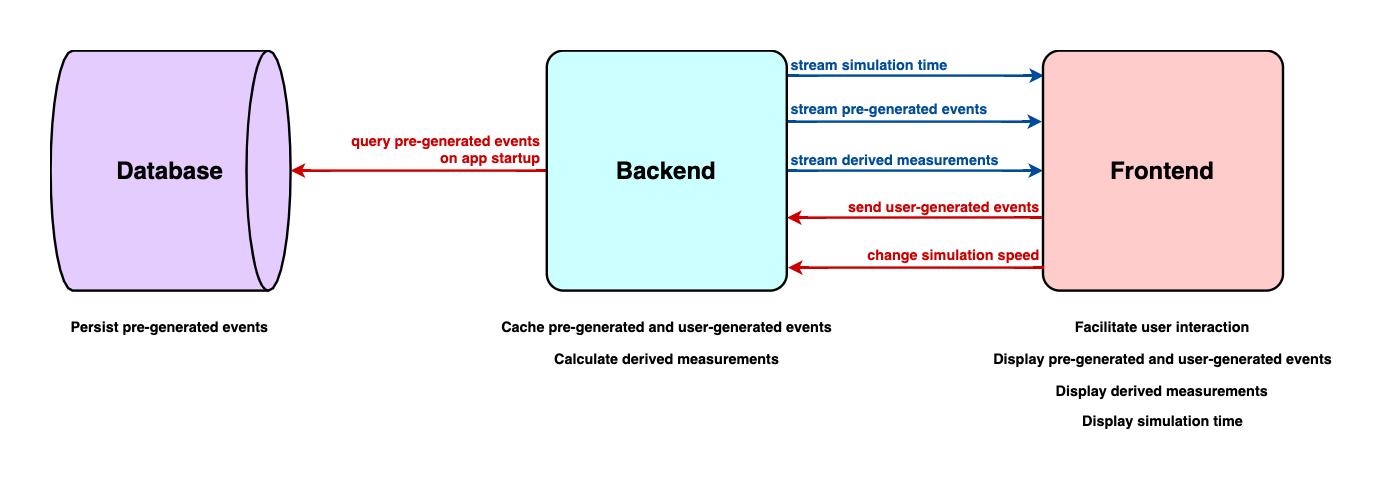
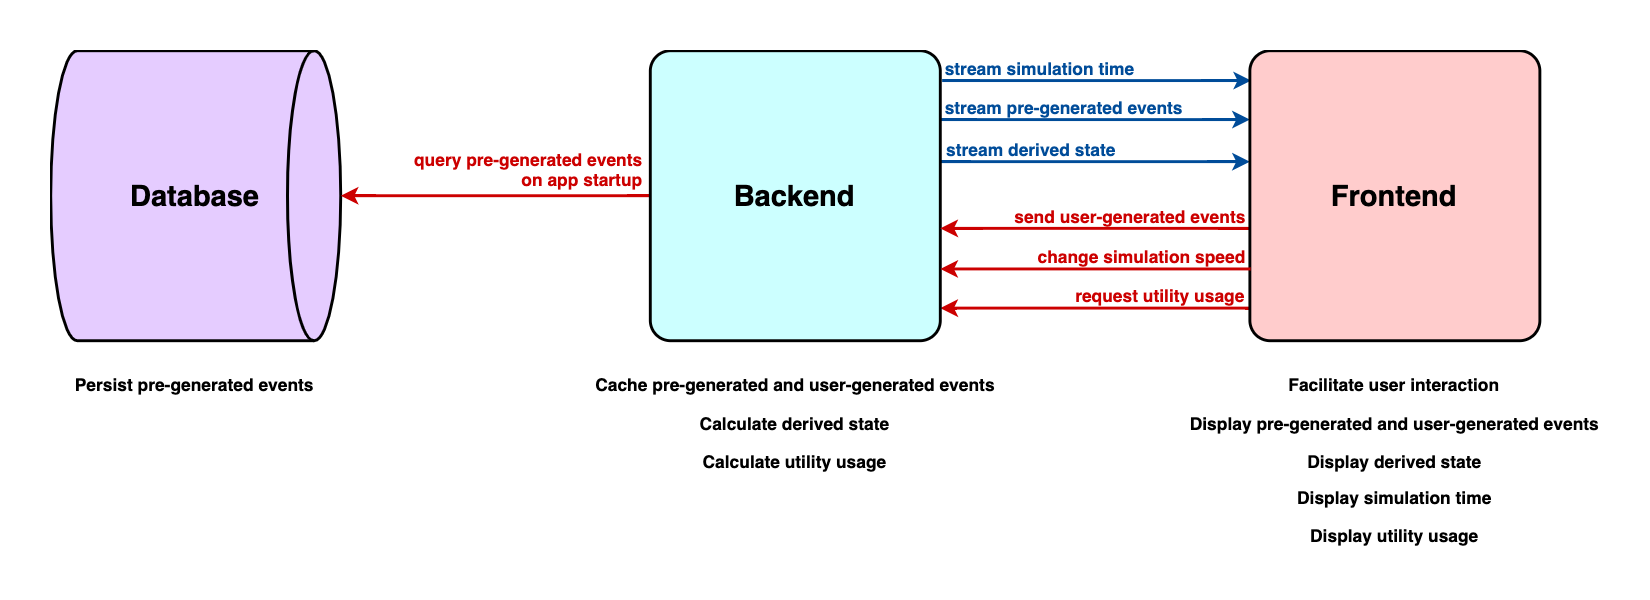
update design

Changed region(s): [[0.0311, 0.0622, 0.9645, 0.9025], [0.4356, 0.3112, 0.5289, 0.3734]]

diff --git a/app/src/components/SmartHome.tsx b/app/src/components/SmartHome.tsx
@@ -35,8 +35,8 @@ class SmartHome extends React.Component<SmartHomeProps, SmartHomeState> {
     return (
       <>
         <h2>Smart Home</h2>
-        {this.state.events.map((event) => (
-          <div key={event.id}>Event: {JSON.stringify(event, null, 2)}</div>
+        {this.state.events.map((event, i) => (
+          <div key={i}>Event: {JSON.stringify(event, null, 2)}</div>
         ))}
       </>
     );

diff --git a/app/src/common/types.tsx b/app/src/common/types.tsx
@@ -3,7 +3,6 @@
  */
 
 export type SmartHomeEvent = {
-  id: number;
   time: number;
   stateKey: string;
   newValue: any;

diff --git a/app/public/events/Event.py b/app/public/events/Event.py
@@ -11,7 +11,6 @@ class Event(TypedDict):
     See `design.md`.
     """
 
-    id: int
     time: int
     stateKey: str
     newValue: Any
@@ -27,13 +26,12 @@ def queryEvents() -> List[Event]:
     return sorted(
         [
             {
-                "id": i,
                 "time": randint(MIN_APP_TIME, MAX_APP_TIME),
                 "stateKey": choice(["x", "y", "z"]),
                 "newValue": "value",
                 "message": "message",
             }
-            for i in range(50000)
+            for _ in range(50000)
         ],
         key=lambda e: e["time"],
     )

diff --git a/app/docs/design.md b/app/docs/design.md
@@ -13,8 +13,7 @@
 
 ### Backend
 
-- How can we efficiently calculate derived measurements?
-- How should we store user-generated events on the backend to be analyzed? We have to analyze pre-generated and user-generated events together to calculate derived measurements.
+- How can we calculate derived state and utility usage?
 
 ### Frontend
 
@@ -36,29 +35,33 @@ Our smart home dashboard simulator is an event-based application that operates a
 
 TODO
 
-## Derived Measurements
+### Derived State
 
-Derived measurements are measurements derived from smart home state over time.
+Derived state is smart home state that is calculated based on the effects of smart home events over time.
 
-### Indoor Temperature
+Although the backend treats derived state differently (because it has to calculate it), the frontend treats derived state as a normal part of the overall smart home state.
 
-TODO
+#### Indoor Temperature
 
-### HVAC Status
+Indoor temperature is the temperature inside the smart home measured in Fahrenheit.
 
-TODO
+It is affected by:
 
-### Utility Usage
+- the outdoor temperature
+- the opening and closing of doors and windows
 
-TODO
+#### HVAC Status
 
-#### Previous Month
+HVAC status tells whether the smart home's HVAC system is _off_, _heating_, or _cooling_.
 
-TODO
+It is affected by:
 
-#### Current Month
+- the thermostat setting
+- the indoor temperature
 
-TODO
+## Utility Usage
+
+Utility usage is calculated based on smart home events over a period of time that consume water and/or electricity.
 
 ## Events
 
@@ -66,7 +69,6 @@ An event is an object representing a change in smart home state at a certain poi
 
 ### Event Attributes
 
-- `id` is the unique identifier of the event (a serial assigned by Postgres)
 - `time` is the number of seconds after the start of app time at which the event occurred
 - `stateKey` is the key to the value in the smart home state that the event changed
 - `newValue` is the new value for `stateKey` in the smart home state after the event
@@ -77,12 +79,17 @@ An event is an object representing a change in smart home state at a certain poi
 Pre-generated events are the backbone of the smart home simulation. They:
 
 - are generated ahead of time (before the app runs)
+- are uniquely identifiable by `time` and `stateKey`
 - are based on the provided family schedule and downloaded weather data
 - define the base smart home state over a 2-month time period
 
 ### User-Generated Events
 
-TODO
+User-generated events are events triggered by the user and created at runtime. They:
+
+- are stored with pre-generated events on the backend
+- are included in calculations of derived state and utility usage
+- take precedence over pre-generated events during calculations when there is a conflict by `time` and `stateKey`
 
 ## Database Design
 
@@ -91,11 +98,11 @@ The database is only used for storing **pre-generated events**, and it does so u
 ```sql
 CREATE TABLE PreGeneratedEvent
 (
-    id serial,
     time int,
     stateKey text,
     newValue json,
-    message text
+    message text,
+    PRIMARY KEY (time, stateKey)
 );
 ```
 
@@ -145,42 +152,86 @@ The app clock allows:
 1   real second   =  43,200     app seconds
 ```
 
-#### `EventQueue`
+#### `EventStore`
 
-The event queue is a custom queue data structure for storing and retrieving **pre-generated events**.
+The event store is an object that wraps an [EventMap](#eventmap) storing all events during the smart home simulation.
 
-It stores all events provided to it while only allowing past events to be retrieved, which allows the app to poll the event queue at regular time intervals to get only the events that have "occurred" since the last poll.
+The event store supports:
 
-Specifically, the event queue:
+- efficiently inserting pre-generated events at simulation start
+- efficiently inserting user-generated events at runtime
+- efficiently removing user-generated events at simulation restart
+- efficiently iterating over specific groups of events filtered by `time`, `stateKey`, and event type ([pre-generated](#pre-generated-events) or [user-generated](#user-generated-events))
 
-- is instantiable with a list of event objects queried from the database
-- uses the app clock to determine if an event is a past or future event
-- hides future events
-- allows retrieving all unprocessed past events (to be processed)
-- allows retrieving all processed past events (to be analyzed)
-- allows resetting its pointer to `0` (when restarting the simulation)
+#### `EventMap`
 
-When the app starts, it queries all events from the database into the event queue, which minimizes the number of queries and subsequently reduces network latency costs.
+`EventMap` is a custom map data structure designed for storing events and supporting efficient insertions and retrievals.
+
+`EventMap` indexes events by `time`, `stateKey`, and event type:
+
+```python
+{
+    0: {
+        "stateKey0": {
+            "pre-generated": <unique event>,
+            "user-generated": <unique event>
+        },
+        "stateKey1": {
+            "pre-generated": <unique event>,
+            "user-generated": <unique event>
+        },
+        ...
+    },
+    1: {
+        "stateKey2": {
+            "pre-generated": <unique event>,
+            "user-generated": <unique event>
+        },
+        "stateKey3": {
+            "pre-generated": <unique event>,
+            "user-generated": <unique event>
+        },
+        ...
+    },
+    ...
+}
+```
+
+This structure allows:
+
+- inserting events in `O(1)` time
+- retrieving events in `O(1)` time
+- removing events in `O(1)` time
+
+Retrieving and removing many events at once both require iterating over app time, which results in `O(1)` time complexity as well because app time is bounded by constants in the smart home simulation.
 
 #### `SSEPublisher`
 
 `SSEPublisher` is an abstract base class providing common functionality for the Flask-Redis SSE publishers used in the app.
 
-It supports running a background job (in a background scheduler using a deamon thread) on an interval of real time or app time to publish objects as SSEs from a SSE-compatible Flask app.
+It supports running a background job (in a background scheduler using a daemon thread) on an interval of real time or app time to publish objects as SSEs from a SSE-compatible Flask app.
 
-Implementing classes just need to set the `eventTypeString` attribute and implement the `getObjectsToPublish` method.
+Implementing classes just need to set the `sseType` attribute and implement the `job()` method.
 
 #### `TimePublisher`
 
-Inheriting from [SSEPublisher](#ssepublisher), the time publisher sends the **current app time** as a SSE to the frontend to be displayed every real second.
+Inheriting from [SSEPublisher](#ssepublisher), the time publisher sends the **current app time** as a SSE to the frontend to be displayed **every real second**.
 
 #### `EventPublisher`
 
-Inheriting from [SSEPublisher](#ssepublisher), the event publisher sends all **unprocessed past events** from the event queue as SSEs to the frontend to be processed at every half-minute of app time.
+Inheriting from [SSEPublisher](#ssepublisher), the event publisher sends all **unprocessed past events** from the event store as SSEs to the frontend to be processed at **every half-minute of app time**.
 
-#### `MeasurementsPublisher`
+##### [EventStore](#eventstore) Strategy
 
-Inheriting from [SSEPublisher](#ssepublisher), the measurements publisher calculates and sends **derived measurements** as a SSE to the frontend to be displayed every real second.
+Iterate over time from the last time the publish job was done to the current time to publish all present pre-generated events in that time period.
+
+#### `DerivedStatePublisher`
+
+Inheriting from [SSEPublisher](#ssepublisher), the derived state publisher calculates and sends **derived state** as a SSE to the frontend to be displayed **every real second**.
+
+##### [EventStore](#eventstore) Strategy
+
+Iterate over time from the last time the publish job was done to the current time to calculate derived state values from the present pre-generated and user-generated events in that time period, then publish the final derived state values.
 
 ## Frontend Design
 
